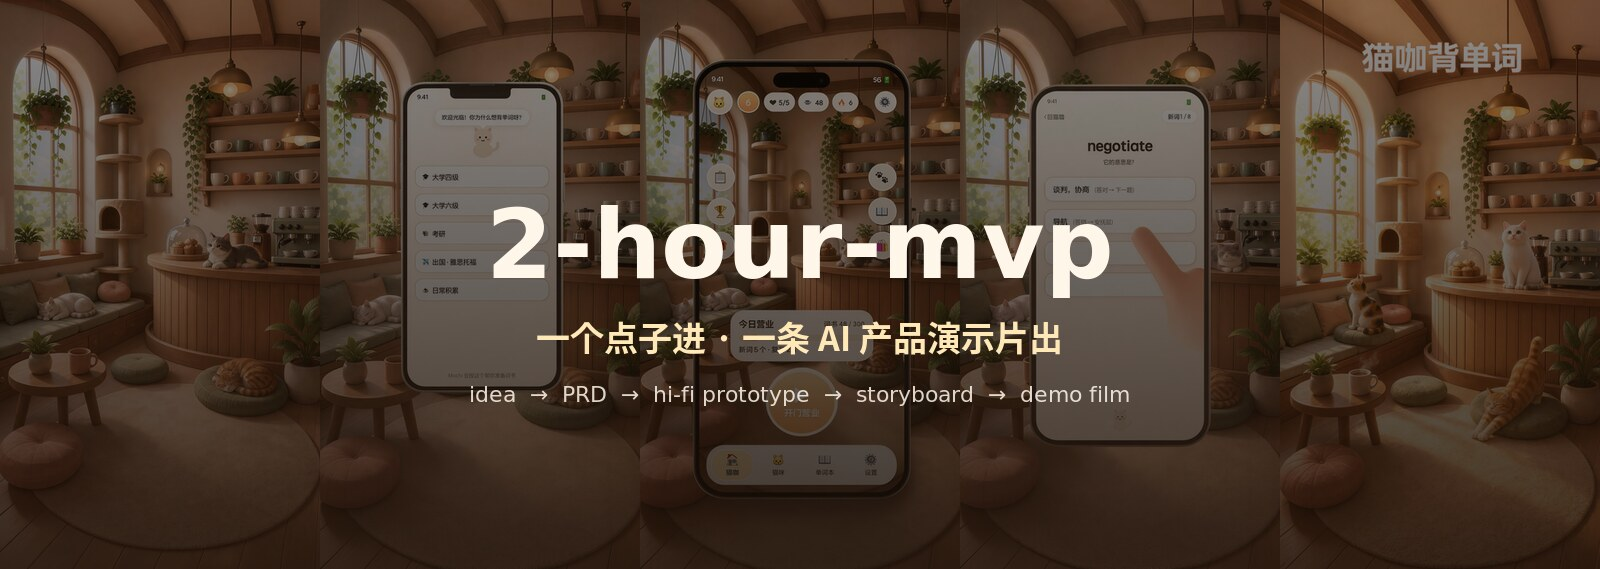
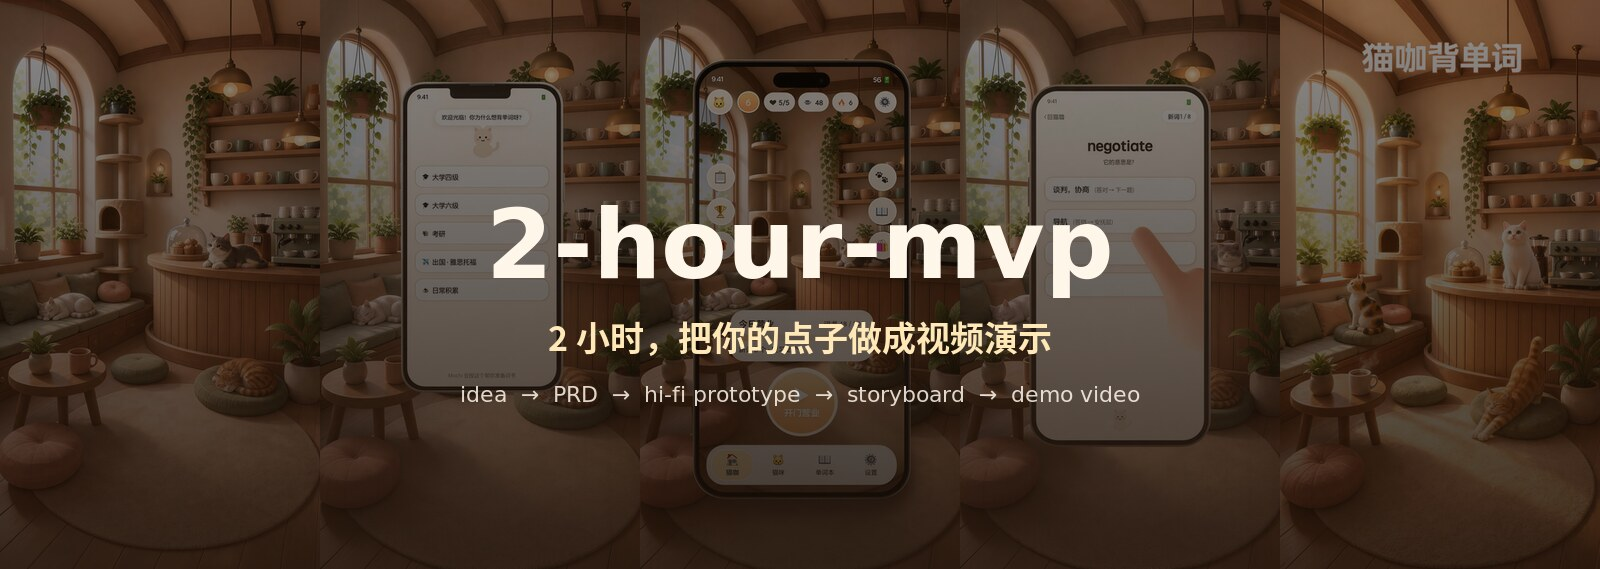
de-AI copywriting

Changed region(s): [[0.3438, 0.5677, 0.6875, 0.6274], [0.2812, 0.6573, 0.7188, 0.717]]

diff --git a/README.md b/README.md
@@ -4,9 +4,9 @@
 
 # 2-hour-mvp
 
-**一个点子进，一条 AI 产品演示片出。**
+**2 小时，把你的点子做成视频演示。**
 
-PRD · 可点击高保真 · 分镜图 · 演示视频 —— 四个交付物，一条流水线，两小时。
+中间产物一样不少：PRD、可点击的高保真原型、分镜图，最后是演示视频。
 
 [![skills.sh](https://skills.sh/b/losdwind/2-hour-mvp)](https://skills.sh/losdwind/2-hour-mvp)
 [![Release](https://img.shields.io/github/v/release/losdwind/2-hour-mvp?color=F08A50&label=release)](https://github.com/losdwind/2-hour-mvp/releases)
@@ -21,45 +21,45 @@ npx skills add losdwind/2-hour-mvp
 
 ---
 
+## 效果
+
+拿「猫咖背单词」当例子，当时给的描述就一句：
+
+> 在猫咖里背单词的 App，背词就是营业，猫是学习搭子，有断签回归安抚
+
 <div align="center">
 
-### 你说一句话
-
-> _"在猫咖里背单词的 App，背词就是营业，猫是学习搭子，有断签回归安抚"_
-
-### 它还你一条片子
+跑完流水线出来的片子（4 倍速预览，原片 60 秒 20 镜，覆盖全部 19 个页面）：
 
 <img src="assets/demo-catcafe-60s-4x.gif" alt="60 秒成片 4 倍速预览" width="280">
 
-<sub>「猫咖背单词」60 秒成片 · 4 倍速预览 · 20 镜覆盖全部 19 个页面 · 本页所有产物均出自这一个案例</sub>
-
 </div>
 
----
+本页所有产物图都出自这一个案例，没有摆拍。
 
-## 它是怎么做到的
+## 流程
 
 ```mermaid
 graph LR
     A["💡 点子"] -->|"① idea-to-prd"| B["📋 PRD<br/>页面清单 + 用户旅程"]
     B -->|"② prd-to-hifi"| C["📱 高保真 HTML<br/>19 页可点击"]
     C -->|"③ hifi-to-storyboard"| D["🎬 分镜表 + 分镜图<br/>seedream 标准帧"]
-    D -->|"④ storyboard-to-video"| E["🎞️ 演示成片<br/>seedance + ffmpeg"]
+    D -->|"④ storyboard-to-video"| E["🎞️ 演示视频<br/>seedance + ffmpeg"]
 ```
 
-统一入口技能 `product-video` 自动判断你手里的东西处于哪一步，从那一步接着跑。每个阶段独立成技能、独立交付，拿着现成 PRD 或交互稿可以从中间任意一步进场。
+入口技能 `product-video` 会看你手里有什么。只有点子就从头跑，已经有 PRD 或交互稿就从中间接着跑。每个阶段也是独立技能，单独用没问题。
 
 | 技能 | 作用 | 交付物 |
 | ------------------- | ---------------------- | -------------- |
-| **product-video**   | 统一入口，判断起点、串联四阶段、设检查点   | 全链路            |
+| **product-video**   | 入口，判断从哪步开始、串流程、每阶段停下来等确认 | 全链路            |
 | **idea-to-prd**     | 问答把点子收敛成 PRD           | PRD markdown   |
 | **prd-to-hifi**     | 按 PRD 页面清单生成可点击交互稿     | 单文件 HTML       |
 | **hifi-to-storyboard**  | 截图、规划分镜、seedream 生成分镜图 | 截图 + 分镜表 + 分镜图 |
 | **storyboard-to-video** | seedance 逐镜生成、加速拼接     | 成片 mp4 + 质检图   |
 
-## 四个交付物，同一个案例
+## 每一步交付什么
 
-### ① PRD — 页面清单直接喂给下一阶段
+### ① PRD，页面清单直接喂给下一步
 
 ```markdown
 | 页面 id      | 页面名     | 业务分组 | 核心元素                               | 进入方式      |
@@ -68,33 +68,35 @@ graph LR
 | streak-back | 断签回归态 | 主界面   | 安抚卡"昨天休息了一天"、重新开门按钮     | 断签后次日启动 |
 ```
 
-页面清单宁全勿缺——答错安抚、断签回归这类状态页，恰恰是演示视频里最打动人的镜头。
+页面清单要求列全。答错安抚、断签回归这类状态页容易被漏掉，但在演示视频里往往是最出效果的镜头。
 
-### ② 可点击高保真 — 单文件 HTML，真文案真状态
+### ② 可点击高保真，单文件 HTML
 
 <img src="assets/stage2-hifi-catcafe.jpg" alt="猫咖背单词 19 页高保真总览" width="100%">
 
-<sub>19 页全览：引导 5 页、主界面 3 页、每日学习 5 页、结算 2 页、周边 4 页。奶油粉彩风由问答选定，页面间按真实业务流跳转，file:// 打开即可点</sub>
+<sub>19 页：引导 5 页、主界面 3 页、每日学习 5 页、结算 2 页、周边 4 页。配色风格做的时候会问你。file:// 打开就能点，按真实业务流跳转</sub>
 
-### ③ 分镜图 — 每页一张统一风格标准帧
+### ③ 分镜图，每页一张统一风格的标准帧
 
 <img src="assets/stage3-frames-catcafe.jpg" alt="猫咖背单词分镜图" width="100%">
 
-<sub>seedream 把每页截图放进统一环境（soft 3D 猫咖），UI 文字像素级可读</sub>
+<sub>seedream 把每页截图放进同一个环境（这里是 soft 3D 猫咖），界面文字保持可读</sub>
 
-### ④ 成片 — 3 秒一镜，按业务逻辑走完全部页面
+### ④ 演示视频，3 秒一镜按业务逻辑走完
 
 <img src="assets/stage4-film-strip-catcafe.jpg" alt="60 秒成片 20 镜抽帧" width="100%">
 
-<sub>20 镜逐镜抽帧：空镜入场 → 引导五连 → 开门营业 → 学词答题 → 结算礼物 → 周边页面 → 断签回归 → 品牌帧收尾</sub>
+<sub>20 镜逐镜抽帧：空镜入场、引导五连、开门营业、学词答题、结算礼物、周边页面、断签回归、片尾标题</sub>
 
-## 成片质感靠三条硬规则
+## 视频为什么不穿帮
 
-**剪辑点零跳变。** 每页只做一张标准帧，镜 k 的尾帧就是镜 k+1 的首帧——剪辑点两侧是同一张图，不需要任何转场遮羞。
+三条写死在技能里的规则。
 
-**机身静止，只切屏幕。** 运动 prompt 内置硬约束，设备全程不翻转不漂移，观众的注意力始终在产品交互上；仅入场与收尾两镜允许设计性运动。
+**剪辑点不跳。** 每页只做一张标准帧，上一镜的尾帧就是下一镜的首帧，剪辑点两侧是同一张图，不需要转场来遮。
 
-**先试跑，后批量。** 生成前报即梦积分预估，试跑 2-3 镜确认节奏后才批量提交；下载自动校验截断、断点可免费续跑。参考成本：上面 60s 成片约 1500 积分，12s 短片约 500。
+**手机不乱动。** 运动 prompt 里写死了机身静止，全片只有屏幕内容在切换，只有开场入场和片尾退场两处允许机身移动。
+
+**先花小钱再花大钱。** 生成前先报即梦积分预估，试跑两三镜确认节奏了再批量提交。下载自动校验，坏文件免费重下，中断了能从断点续跑。参考成本：上面这条 60 秒的片子约 1500 积分，12 秒短片约 500。
 
 ## 安装
 
@@ -104,21 +106,21 @@ graph LR
 npx skills add losdwind/2-hour-mvp
 ```
 
-**Claude Cowork** — 下载 [Releases](https://github.com/losdwind/2-hour-mvp/releases) 里的 `2-hour-mvp.plugin`，拖进对话点安装。
+**Claude Cowork** 用户下载 [Releases](https://github.com/losdwind/2-hour-mvp/releases) 里的 `2-hour-mvp.plugin`，拖进对话点安装。
 
 <details>
-<summary><b>依赖</b>（点开）</summary>
+<summary><b>依赖</b></summary>
 
-- 即梦 dreamina CLI，阶段 ③④ 使用：`curl -s https://jimeng.jianying.com/cli | bash`，首次 OAuth 登录，生成消耗即梦积分
+- 即梦 dreamina CLI，第 ③④ 步用：`curl -s https://jimeng.jianying.com/cli | bash`，首次要 OAuth 登录，生成消耗即梦积分
 - ffmpeg、Python3 + PIL，校验与后期
-- headless 浏览器任一（puppeteer / playwright / Chrome），仅阶段 ③ 截图用
+- headless 浏览器任一（puppeteer / playwright / Chrome），只有第 ③ 步截图用
 
 </details>
 
 <details>
-<summary><b>交付物衔接约定</b>（点开）</summary>
+<summary><b>交付物怎么衔接</b></summary>
 
-页面 id 在 PRD 页面清单里定义，交互稿 DOM 用 `#s-<页面id>`，截图与分镜帧文件名沿用同一 id。四个阶段无缝续跑，也可从任意中间产物进场。
+页面 id 在 PRD 页面清单里定义，交互稿 DOM 用 `#s-<页面id>`，截图和分镜帧文件名沿用同一 id。四步可以无缝续跑，也可以拿着现成的中间产物从半路进场。
 
 </details>
 
@@ -126,7 +128,7 @@ npx skills add losdwind/2-hour-mvp
 
 <div align="center">
 
-用一句话换一条产品片 · 觉得有用点个 ⭐
+觉得有用点个 star
 
 MIT © [losdwind](https://github.com/losdwind)
 